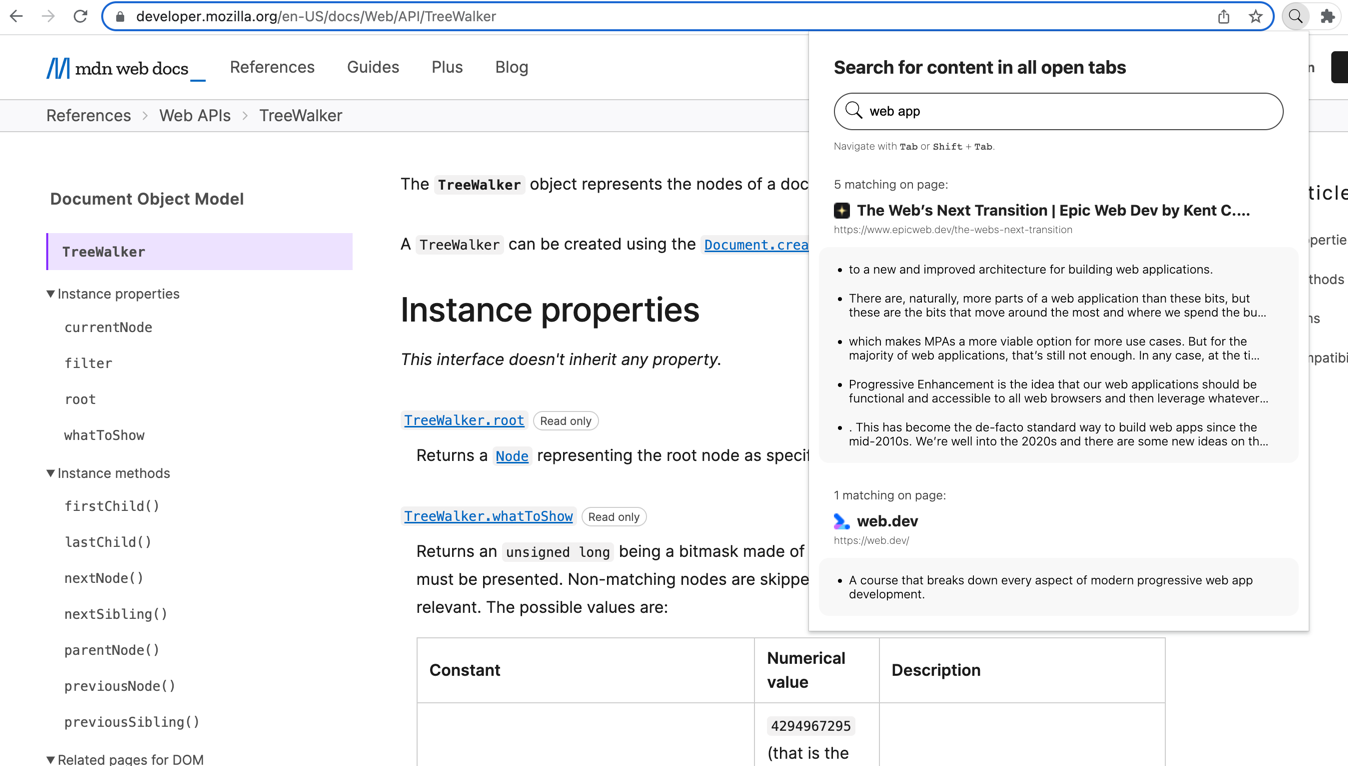
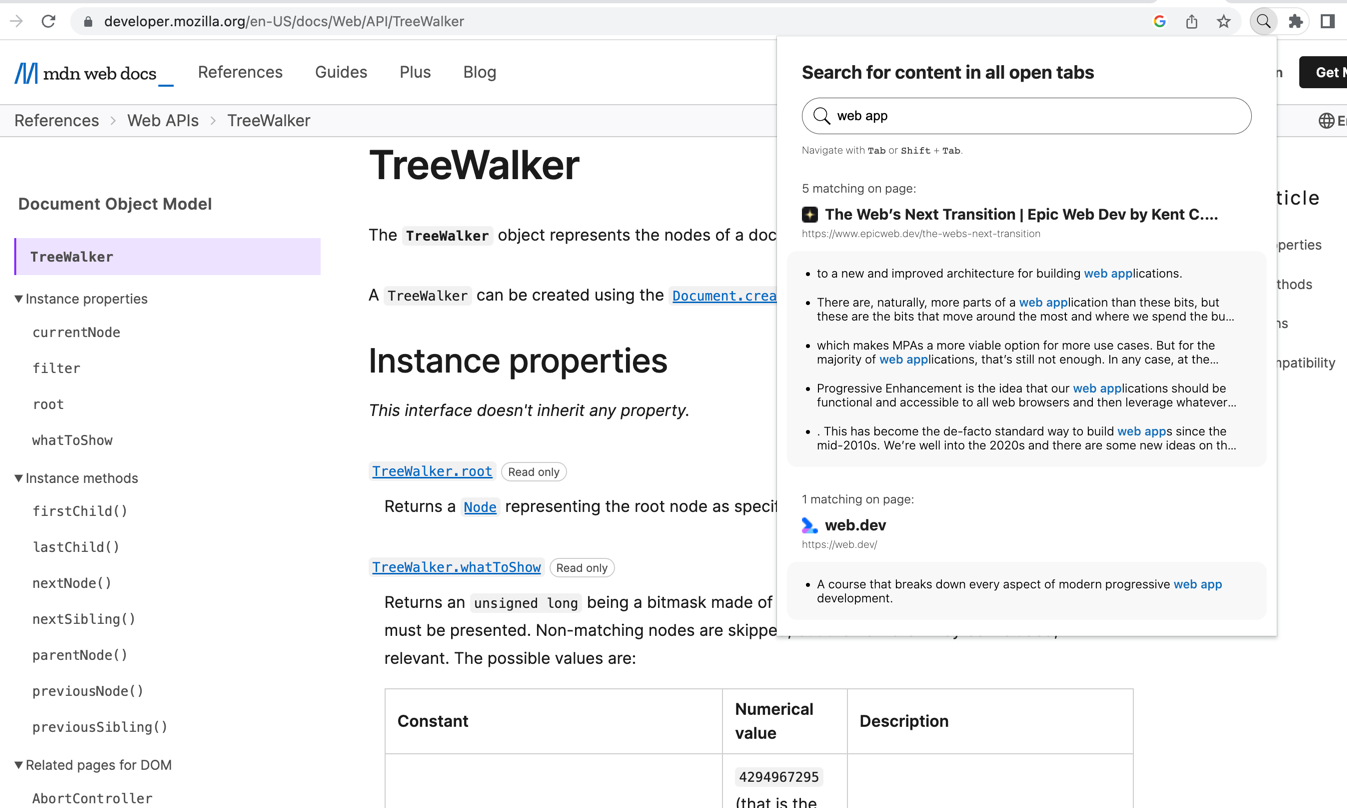
Highlight matching words in search results

diff --git a/src/components/Results.tsx b/src/components/Results.tsx
@@ -22,7 +22,16 @@ const getSortedMatches = (matches: NodeDataRecord) => {
   })
 }
 
-export const Results = (props: { matches: NodeDataRecord }) => {
+const HighlightedResult = (props) => {
+  const splitText = props.text.split(props.query)
+  return splitText.map((t, i) => {
+    if (t === '') return <span class="highlighted">{props.query}</span>
+    else if (i === (splitText.length - 1)) return <span>{t}</span>
+    else return <><span>{t}</span><span class="highlighted">{props.query}</span></>
+  })
+}
+
+export const Results = (props: { matches: NodeDataRecord, query: string }) => {
   const [sortedMatches, setSortedMatches] = createSignal(getSortedMatches(props.matches ?? {}))
   createEffect(() => setSortedMatches(getSortedMatches(props.matches)))
 
@@ -46,7 +55,9 @@ export const Results = (props: { matches: NodeDataRecord }) => {
                     class="match"
                     onkeypress={(e) => a11yClick(e) && markAndShowResult(match.className, tabId)}
                     onclick={() => markAndShowResult(match.className, tabId)}>
-                <span class="line-clamp-2">{match.text}</span>
+                <span class="line-clamp-2">
+                  <HighlightedResult text={match.text} query={props.query} />
+                </span>
               </li>}
             </For>
           </ul>

diff --git a/src/main.css b/src/main.css
@@ -38,7 +38,7 @@ div.input-container {
 input.search-input {
   width: 100%;
   padding: 10px 10px 10px 35px;
-  border: 1px solid #424242;
+  border: 0.06em solid #424242;
   border-radius: 20px;
 }
 
@@ -50,7 +50,7 @@ img.search-icon {
   position: absolute;
   height: 20px;
   width: 20px;
-  bottom: 10px;
+  bottom: 8px;
   left: 10px;
 }
 
@@ -121,4 +121,9 @@ p.navigation-hint {
   margin-bottom: 0;
   font-size: 10px;
   font-weight: 200;
+}
+
+.highlighted {
+  font-weight: 500;
+  color: #0e6eba;
 }

diff --git a/src/remoteFns/index.ts b/src/remoteFns/index.ts
@@ -13,7 +13,7 @@ export const prepareRemote = () => {
   // Register search result listener
   chrome.runtime.onMessage.addListener(function(className) {
     const resultEls = Array.from(document.getElementsByClassName(className) as HTMLCollectionOf<HTMLElement>)
-    resultEls[0].style.background = 'yellow'
+    resultEls[0].style.background = '#F7DE3A'
     resultEls[0].style.color = 'black'
     resultEls[0].scrollIntoView({ block: 'center' })
 

diff --git a/src/components/Search.tsx b/src/components/Search.tsx
@@ -40,6 +40,6 @@ export default () => {
         <input autofocus class="search-input" placeholder="Search for..." oninput={(e) => setQuery(e.target.value)} />
       </div>
     </form>
-    <Results matches={getMatchingNodes()} />
+    <Results matches={getMatchingNodes()} query={query()}/>
   </div>;
 };

diff --git a/README.md b/README.md
@@ -22,4 +22,4 @@ When a result is clicked, the user is navigated to the correct tab & element, wh
 Below is an example of a highlighted text element after the linked search result has been clicked. 
 The correct tab is opened and the element is scrolled into view.
 
-![img_1.png](readme_extention-highlight.png)
+![img.png](readme_extention-highlight.png)
